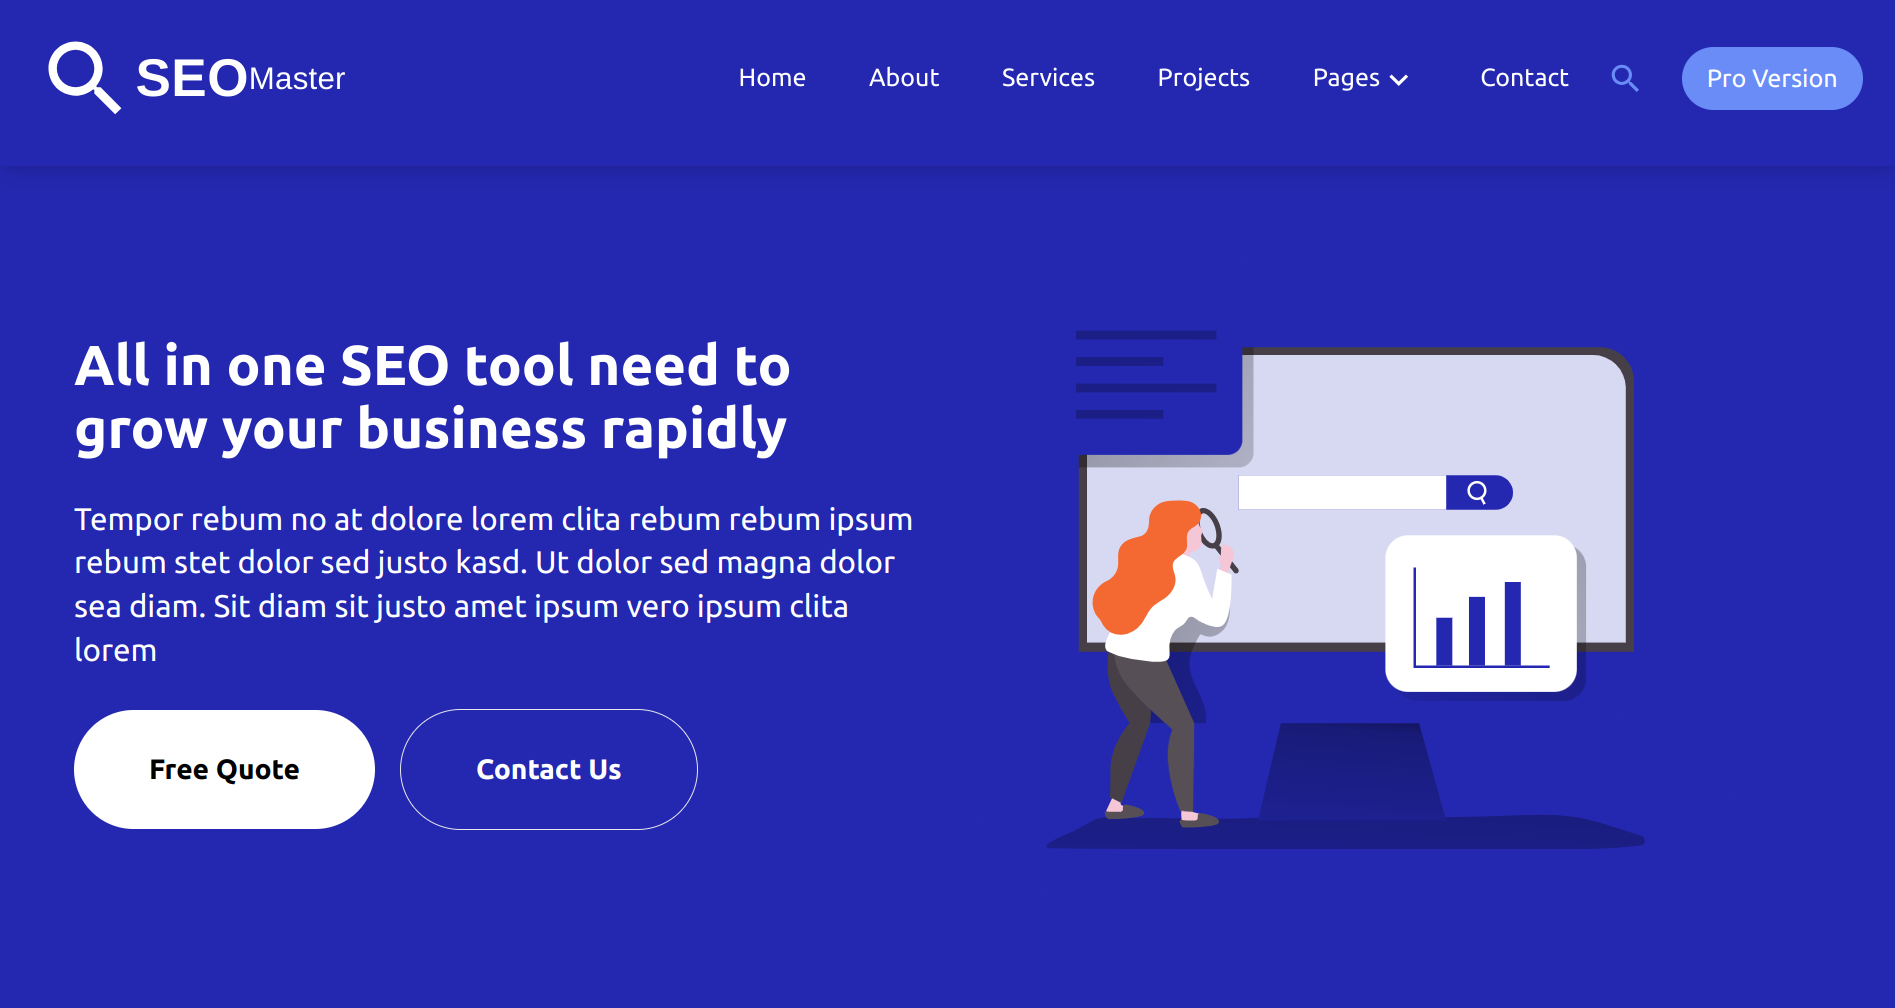
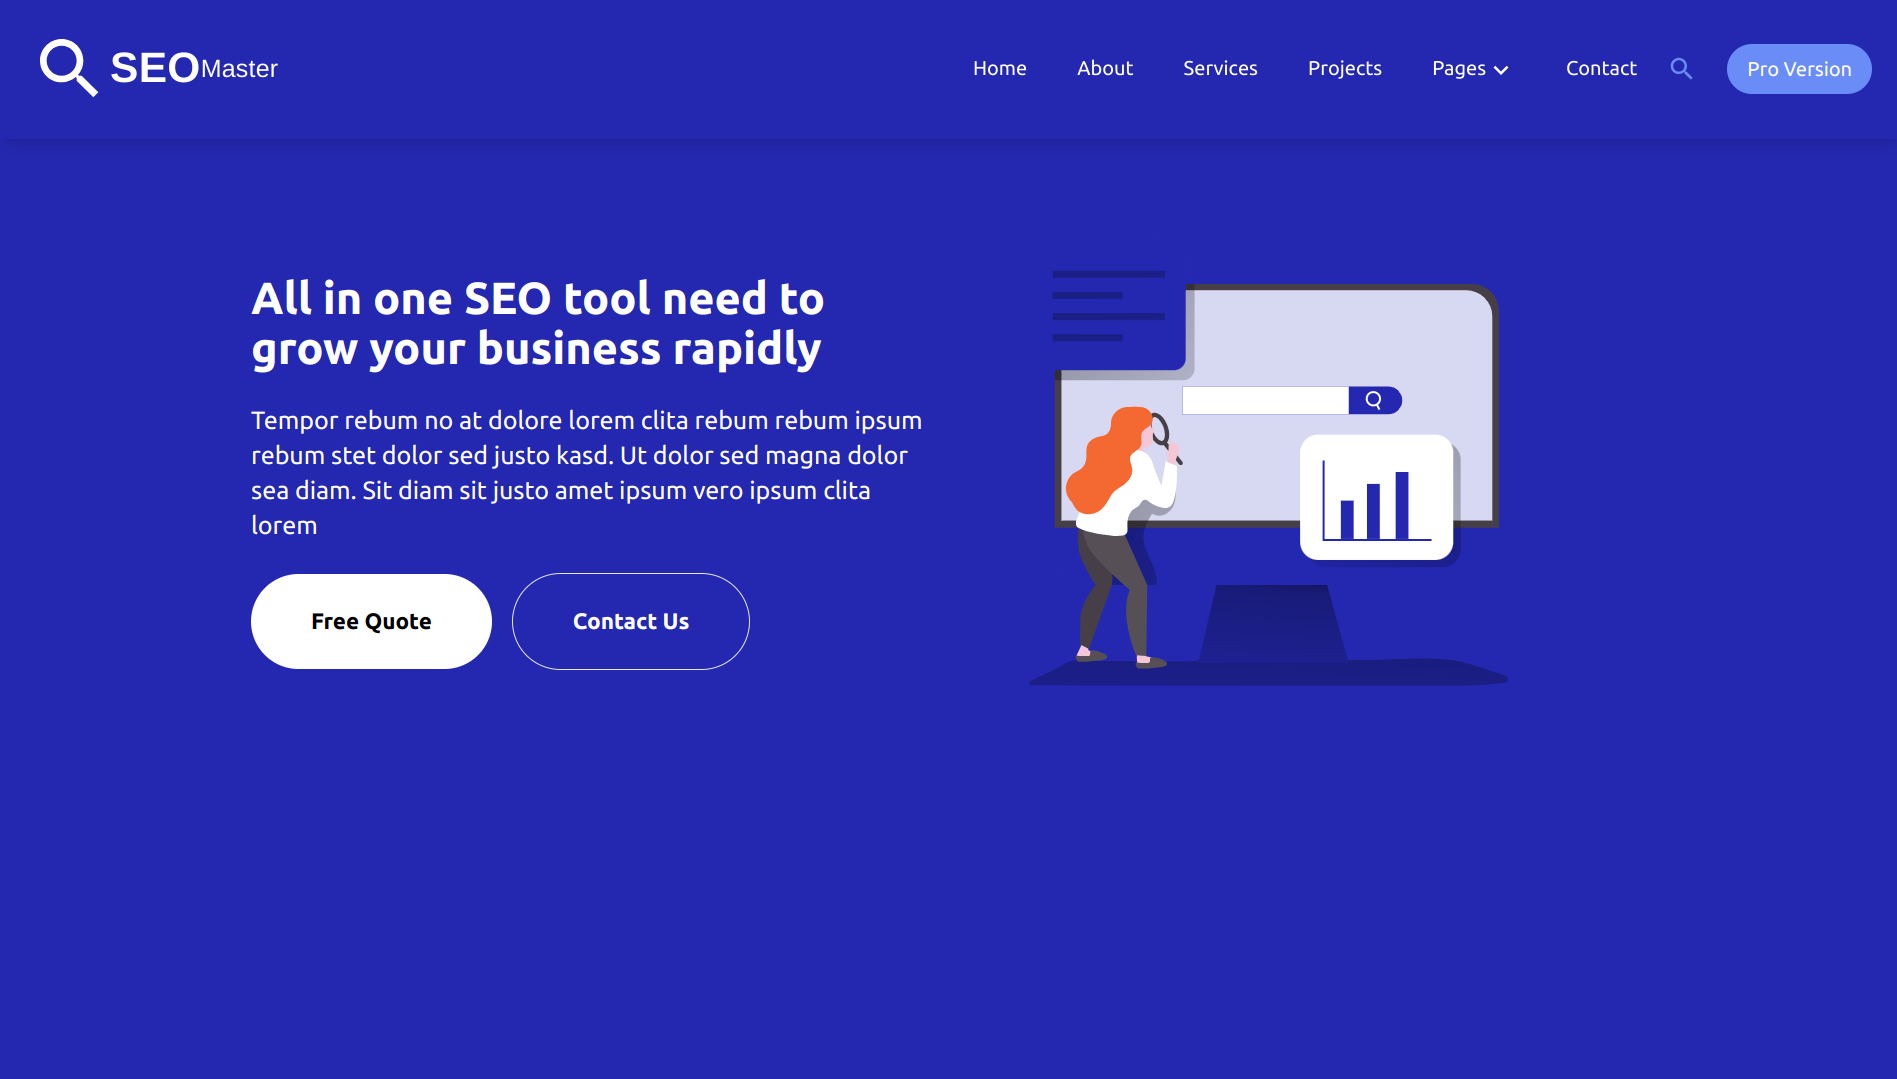
filled data

diff --git a/components/Projects.tsx b/components/Projects.tsx
@@ -1,3 +1,4 @@
+'use client';
 import React from 'react';
 import {
   Card,
@@ -10,6 +11,8 @@ import {
 import Image from 'next/image';
 import { Button } from './ui/button';
 import ProjectsData from '@/data/projects.json';
+import { Badge } from '@/components/ui/badge';
+import { TypeAnimation } from 'react-type-animation';
 
 interface Project {
   id: string;
@@ -18,50 +21,82 @@ interface Project {
   repo_link: string;
   demo_link: string;
   image: string;
+  used_technologies: Array<UsedTechnology>;
+}
+interface UsedTechnology {
+  id: string;
+  name: string;
 }
 
 const Projects = () => {
   return (
-    <div className="md:max-w-[80%] mx-auto p-2 my-5 md:flex items-center">
-      <div className="grid lg:grid-cols-6 md:grid-cols-4 grid-cols-2 gap-10 mx-auto p-4">
-        {ProjectsData.data.map((project: Project) => (
-          <Card
-            key={project.id}
-            className="w-full md:w-72 md:col-span-2 col-span-full
+    <div>
+      <div className="flex justify-center items-center">
+        <TypeAnimation
+          sequence={[`The projects I've developed. `, 1000, '', 1000]}
+          wrapper="span"
+          speed={20}
+          style={{
+            fontSize: '1.9em',
+            display: 'inline-block',
+            fontWeight: 700,
+            margin: '2rem 0 2rem',
+          }}
+          repeat={Infinity}
+        />
+      </div>
+      <div className="md:max-w-[80%] mx-auto p-2 mb-5 md:flex items-center">
+        <div className="grid xl:grid-cols-6 md:grid-cols-4 grid-cols-2 gap-10 mx-auto p-4">
+          {ProjectsData.data.map((project: Project) => (
+            <Card
+              key={project.id}
+              className="w-full lg:w-80 md:w-72 md:col-span-2 col-span-full
              border-2 border-solid border-black dark:border-[#c8cace]
              shadow-[6px_6px_#2d323d] dark:shadow-[6px_6px_#c8cace]"
-          >
-            <CardHeader className="p-0 m-0 mb-4">
-              <Image
-                src={project.image}
-                alt="test"
-                width={800}
-                height={400}
-                className="rounded-t-md"
-              ></Image>
-            </CardHeader>
-            <CardTitle className="text-center text-xl">
-              {project.title}
-            </CardTitle>
-            <CardContent className="text-center p-2">
-              <CardDescription>{project.description}</CardDescription>
-            </CardContent>
-            <CardFooter>
-              <div className="flex gap-x-4 justify-center items-center mx-auto">
-                <Button variant="retro" size="sm">
-                  <a href={project.repo_link} target="_blank">
-                    Github
-                  </a>
-                </Button>
-                <Button size="sm" className="text-sm" variant="retro">
-                  <a href={project.demo_link} target="_blank">
-                    View Demo
-                  </a>
-                </Button>
-              </div>
-            </CardFooter>
-          </Card>
-        ))}
+            >
+              <CardHeader className="p-0 m-0 mb-4">
+                <Image
+                  src={project.image}
+                  alt="test"
+                  width={800}
+                  height={400}
+                  className="rounded-t-md"
+                ></Image>
+              </CardHeader>
+              <CardTitle className="text-center text-xl">
+                {project.title}
+              </CardTitle>
+
+              <CardContent className="m-0 py-2">
+                {project.used_technologies.map((item: UsedTechnology) => (
+                  <Badge variant="outline" key={item.id} className="ml-2 mt-2">
+                    {item.name}
+                  </Badge>
+                ))}
+              </CardContent>
+
+              <CardContent className="text-center px-2">
+                <CardDescription className="mt-2">
+                  {project.description}
+                </CardDescription>
+              </CardContent>
+              <CardFooter>
+                <div className="flex gap-x-4 justify-center items-center mx-auto">
+                  <Button variant="retro" size="sm">
+                    <a href={project.repo_link} target="_blank">
+                      Github
+                    </a>
+                  </Button>
+                  <Button size="sm" className="text-sm" variant="retro">
+                    <a href={project.demo_link} target="_blank">
+                      View Demo
+                    </a>
+                  </Button>
+                </div>
+              </CardFooter>
+            </Card>
+          ))}
+        </div>
       </div>
     </div>
   );

diff --git a/components/AboutMe.tsx b/components/AboutMe.tsx
@@ -1,3 +1,4 @@
+'use client';
 import React from 'react';
 import about from '@/data/about.json';
 import Image from 'next/image';
@@ -10,6 +11,7 @@ import {
   SiTypescript,
   SiVite,
 } from 'react-icons/si';
+// import { TypeAnimation } from 'react-type-animation';
 
 const skills = [
   {
@@ -55,8 +57,20 @@ const skills = [
 ];
 const AboutMe = () => {
   return (
-    <div className="md:max-w-[80%] mx-auto p-2 my-5 md:my-20 md:flex items-center">
+    <div className="xl:max-w-[80%] mx-auto p-2 my-5  md:p-10 xl:my-20 xl:flex items-center">
       <div className=" w-full ">
+        {/* <TypeAnimation
+          sequence={[`🚀 Welcome to my Digital Playground !`]}
+          wrapper="span"
+          speed={5}
+          style={{
+            fontSize: '4em',
+            display: 'inline-block',
+            fontWeight: 700,
+            margin: '2rem 0 2rem',
+            lineHeight: 1,
+          }}
+        /> */}
         <h1 className="scroll-m-20 text-4xl font-extrabold tracking-tight lg:text-5xl">
           {about.data.title}
         </h1>
@@ -85,12 +99,12 @@ const AboutMe = () => {
           ))}
         </ul>
       </div>
-      <div className="w-full md:m-0 md:flex md:justify-end mt-20">
+      <div className="w-full xl:mt-[-6em] xl:flex xl:justify-end mt-20">
         <Image
           src={'/my-pic.jpg'}
           alt="my-picture"
-          className="shadow-[3rem_-3rem_0.2rem_#848484] dark:shadow-[3rem_-3rem_0.2rem_#DBDBDB] mx-auto md:ml-24"
-          width={500}
+          className="shadow-[3rem_-3rem_0.2rem_#848484] dark:shadow-[3rem_-3rem_0.2rem_#DBDBDB] mx-auto xl:ml-24"
+          width={450}
           height={800}
         ></Image>
       </div>

diff --git a/components/ui/badge.tsx b/components/ui/badge.tsx
@@ -1,0 +1,36 @@
+import * as React from "react"
+import { cva, type VariantProps } from "class-variance-authority"
+
+import { cn } from "@/lib/utils"
+
+const badgeVariants = cva(
+  "inline-flex items-center rounded-full border px-2.5 py-0.5 text-xs font-semibold transition-colors focus:outline-none focus:ring-2 focus:ring-ring focus:ring-offset-2",
+  {
+    variants: {
+      variant: {
+        default:
+          "border-transparent bg-primary text-primary-foreground hover:bg-primary/80",
+        secondary:
+          "border-transparent bg-secondary text-secondary-foreground hover:bg-secondary/80",
+        destructive:
+          "border-transparent bg-destructive text-destructive-foreground hover:bg-destructive/80",
+        outline: "text-foreground",
+      },
+    },
+    defaultVariants: {
+      variant: "default",
+    },
+  }
+)
+
+export interface BadgeProps
+  extends React.HTMLAttributes<HTMLDivElement>,
+    VariantProps<typeof badgeVariants> {}
+
+function Badge({ className, variant, ...props }: BadgeProps) {
+  return (
+    <div className={cn(badgeVariants({ variant }), className)} {...props} />
+  )
+}
+
+export { Badge, badgeVariants }

diff --git a/tailwind.config.js b/tailwind.config.js
@@ -13,7 +13,20 @@ module.exports = {
       center: true,
       padding: "2rem",
       screens: {
-        "2xl": "1400px",
+        // 'sm': '640px',
+        // // => @media (min-width: 640px) { ... }
+
+        // 'md': '768px',
+        // // => @media (min-width: 768px) { ... }
+
+        // 'lg': '1024px',
+        // // => @media (min-width: 1024px) { ... }
+
+        // 'xl': '1280px',
+        // // => @media (min-width: 1280px) { ... }
+
+        // '2xl': '1536px',
+        // // => @media (min-width: 1536px) { ... }
       },
     },
     extend: {

diff --git a/components/Contact.tsx b/components/Contact.tsx
@@ -52,7 +52,7 @@ const Contact = () => {
             {SocialsData.data.map((social: Social) => (
               <a
                 href={social.link}
-                target='_blank'
+                target="_blank"
                 key={social.id}
                 className="flex gap-x-2 mb-5 items-center"
               >
